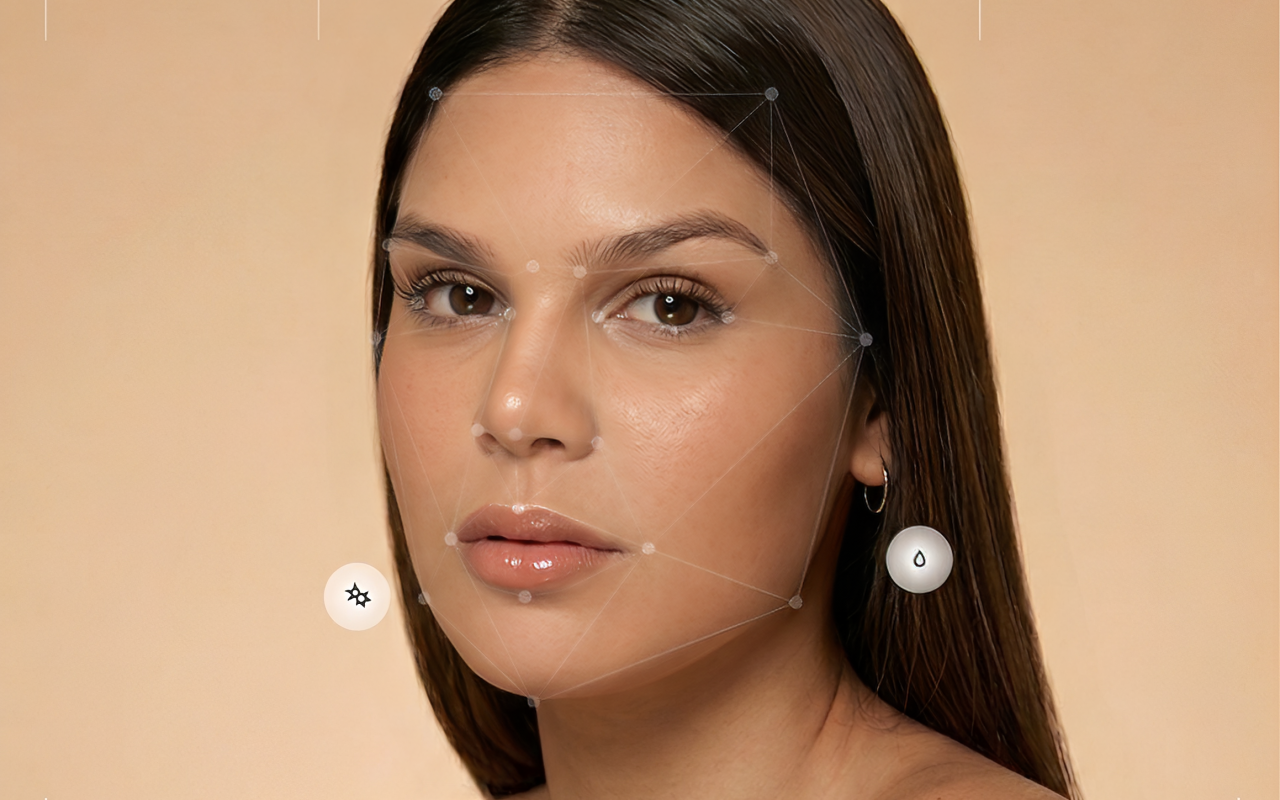
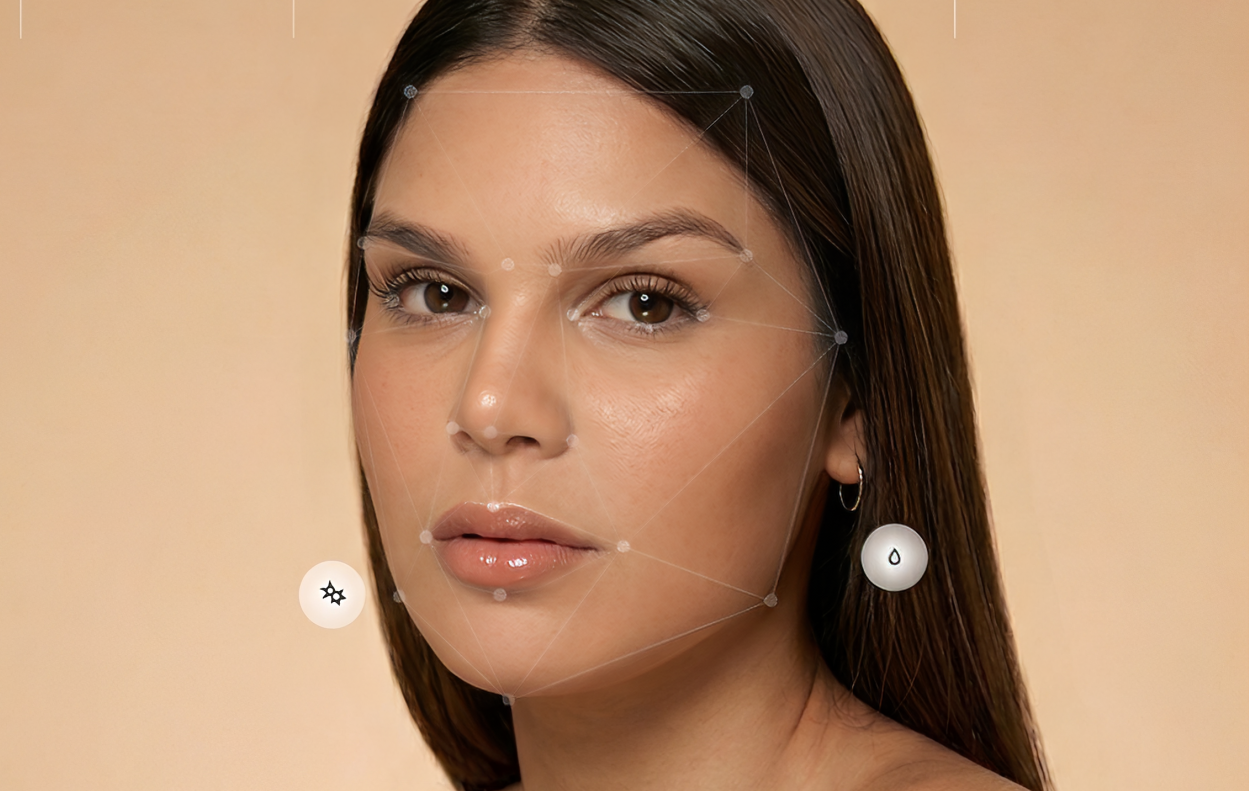
perf: substitui imagens grandes por versões JPEG otimizadas
- pele-normal.png: 5.18MB → 1.01MB (-80%)
- pele-oleosa.png: 4.92MB → 1.19MB (-76%)
- pele-sensivel.png: 3.05MB → 1.04MB (-66%)
- pele-acne.png: 2.49MB → 1.01MB (-59%)
- pele-mista.png: 1.54MB → 0.94MB (-39%)
- placeholder_analise.png: 3.07MB → 0.74MB (-76%)
- imagem_tela_inicial.png: 1.33MB → 1.29MB (leve redução)
- Remove logo-faceglow.svg da raiz (movido para assets/logos/)

Changed region(s): [[0.2186, 0.0, 0.8431, 1.0], [0.9992, 0.0, 1.0, 0.5765]]

diff --git a/src/domains/landing/services/LandingContentService.ts b/src/domains/landing/services/LandingContentService.ts
@@ -153,17 +153,17 @@ export class LandingContentService implements ILandingContentService {
     this.plans = [
       LandingPricingPlan.create(
         "free",
-        "Free",
+        "Gratuito",
         0,
-        "vitalício",
+        "para sempre",
         1,
-        "Experimente sem compromisso",
+        "Comece agora, sem cartão de crédito",
         [
-          "✓ 1 análise gratuita",
-          "✓ Resultado facial completo",
-          "✓ Tipo de pele + condições",
-          "✗ Rotina personalizada",
-          "✗ Histórico e comparativo",
+          "1 análise de pele gratuita",
+          "Tipo de pele + condições detectadas",
+          "Rotina de passos diários",
+          "✗ Rotina com produtos personalizados",
+          "✗ Histórico de evolução",
         ],
         false,
         null,
@@ -176,13 +176,13 @@ export class LandingContentService implements ILandingContentService {
         2490, // R$ 24,90
         "por mês",
         8,
-        "Acesso completo à plataforma",
+        "Tudo que sua pele precisa",
         [
-          "✓ 8 análises por mês",
-          "✓ Rotina personalizada IA",
-          "✓ Checklist diário de rotina",
-          "✓ Histórico e comparativo",
-          "✓ Adicionar produtos próprios",
+          "Análises de pele ilimitadas",
+          "Rotina com produtos curados pela IA",
+          "Checklist diário de rotina",
+          "Histórico e comparativo de evolução",
+          "Gerenciar seus próprios produtos",
         ],
         true,
         "MAIS POPULAR",
@@ -197,11 +197,11 @@ export class LandingContentService implements ILandingContentService {
         1,
         "Sem assinatura, sem compromisso",
         [
-          "✓ 1 análise completa",
-          "✓ Resultado facial detalhado",
-          "✓ Tipo de pele + condições",
-          "✗ Rotina personalizada",
-          "✗ Histórico de análises",
+          "1 análise completa de pele",
+          "Tipo de pele + condições detectadas",
+          "Rotina de passos diários",
+          "✗ Rotina com produtos personalizados",
+          "✗ Histórico de evolução",
         ],
         false,
         null,
